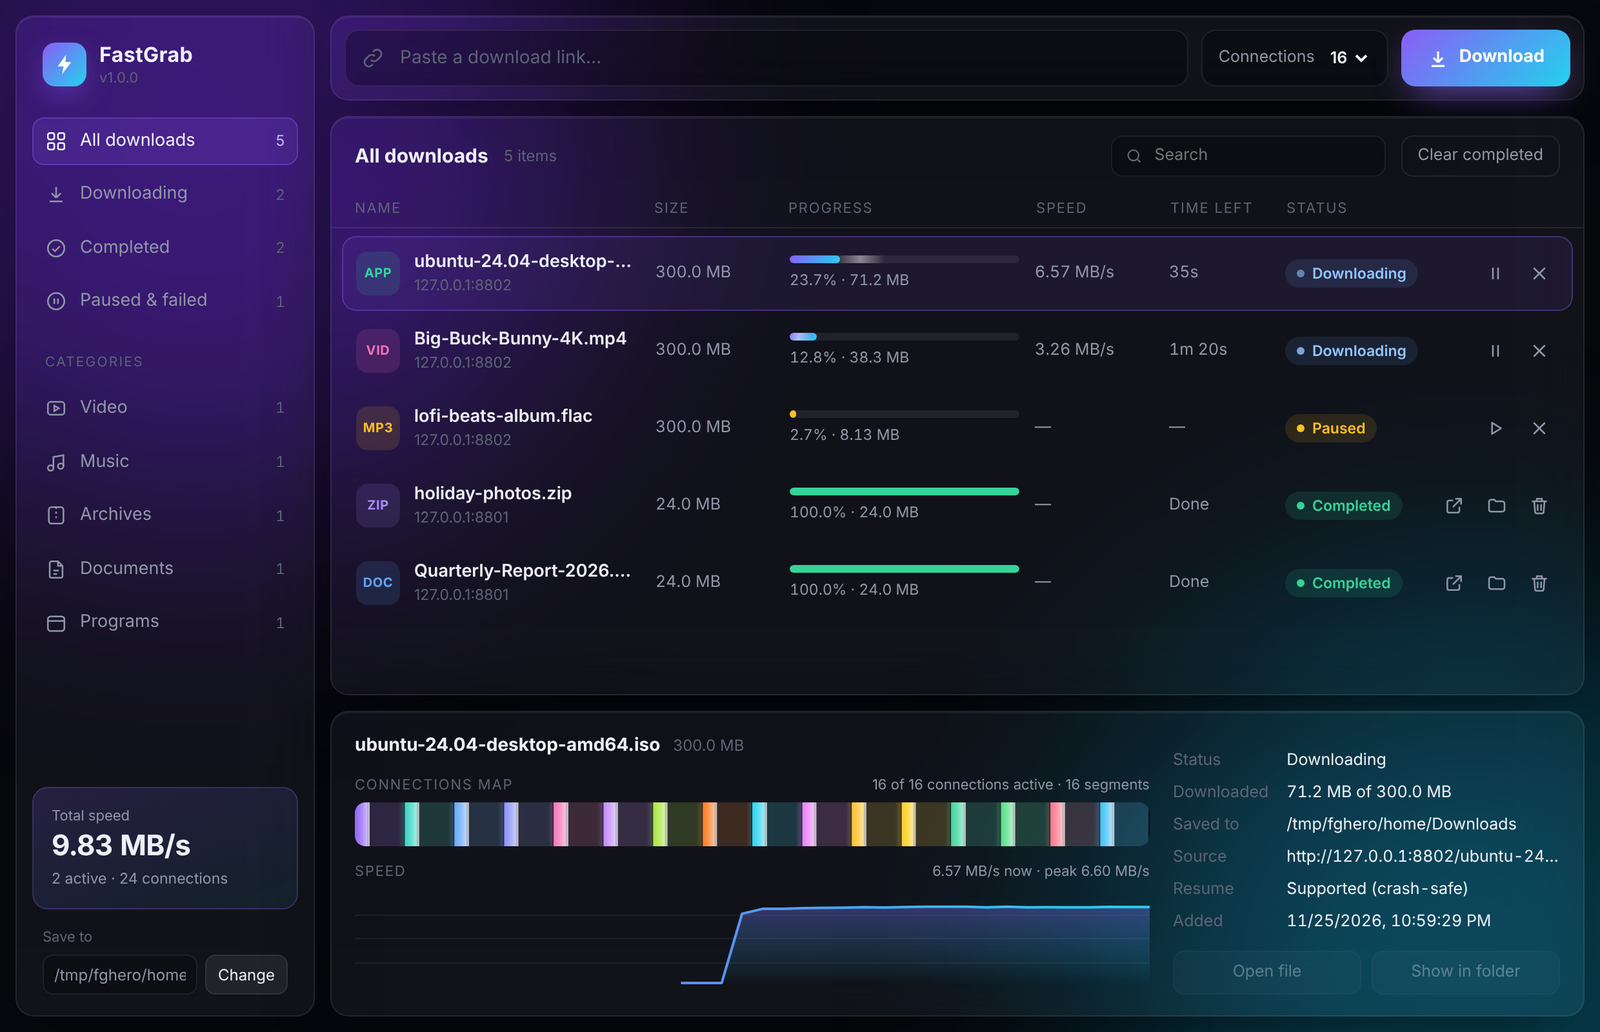
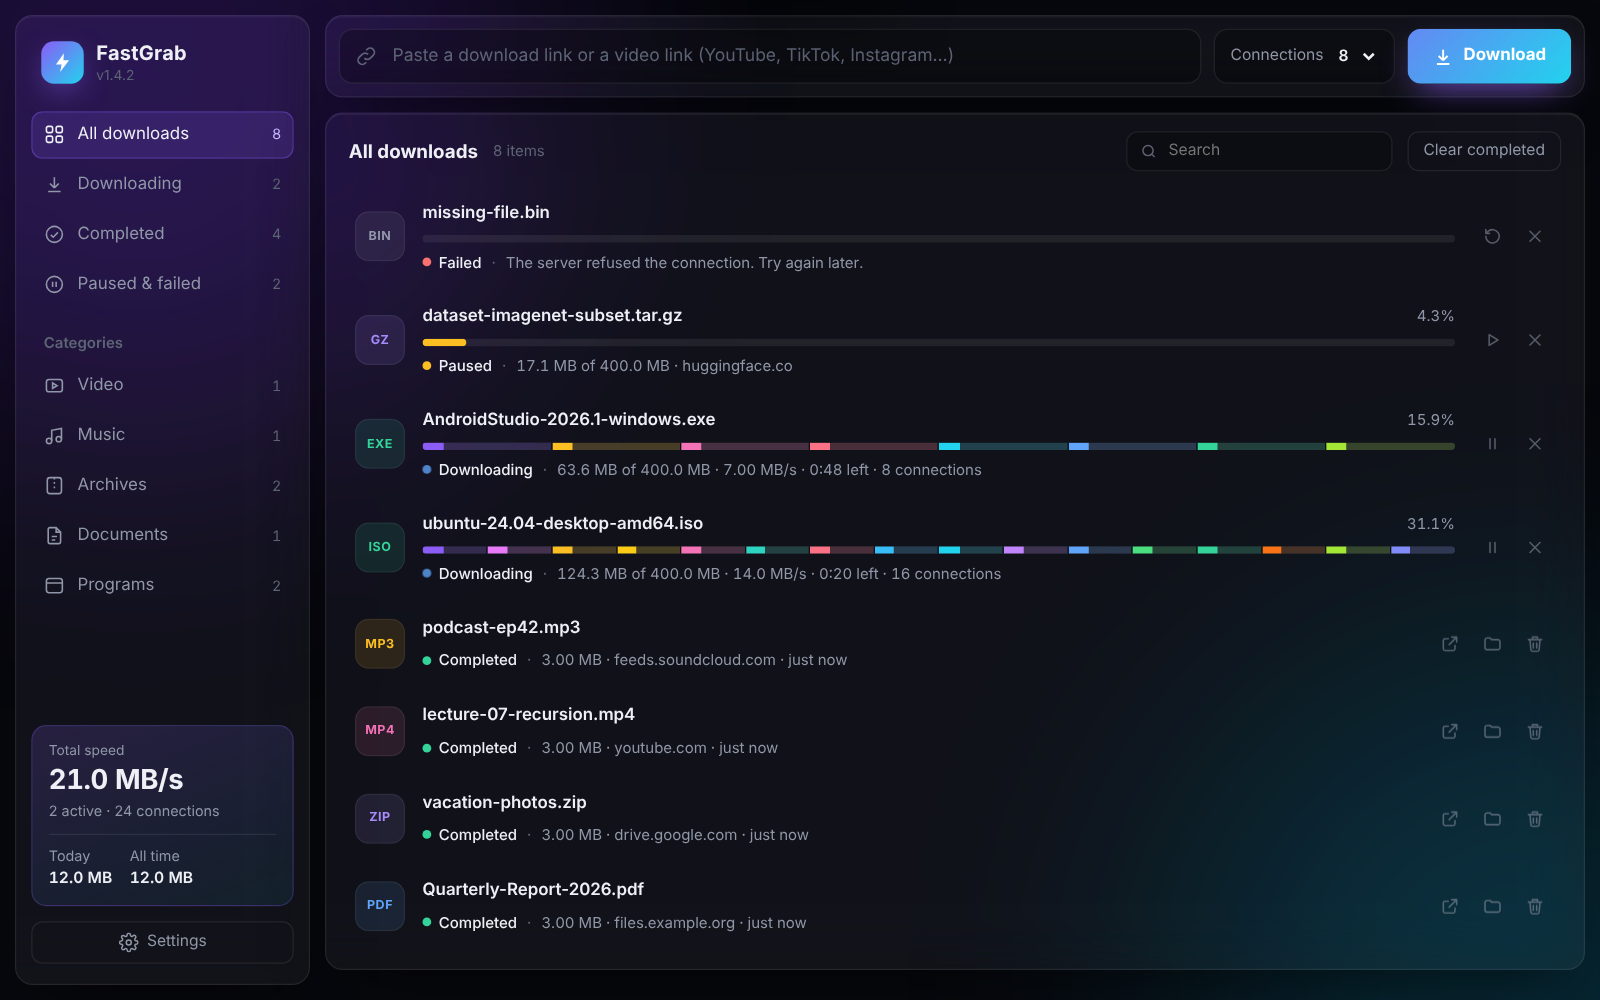
v1.5.0: redesigned downloads list
- Rows instead of a cramped table: full file names, a plain-language status line
  (131 MB of 400 MB · 14.0 MB/s · 0:19 left · 16 connections), actions on hover.
- Each downloading row's progress bar shows every connection's piece of the file.
- Errors in plain words in English, Arabic and Hebrew (e.g. "Couldn't find the
  server. Check the link and your internet connection.").
- The details panel opens only when you pick a download; close it with X, Esc or
  a second click, so the list gets the whole window.
- New empty screen with ways to start; "Today" and "All time" download stats.
- Calmer background, sentence-case labels, keyboard focus and arrow keys in the list.
- Small windows: the sidebar becomes an icon rail.
- New README screenshot; ui_e2e.py now has 41 checks.

diff --git a/tests/ui_e2e.py b/tests/ui_e2e.py
@@ -105,6 +105,53 @@ def main():
             pg.wait_for_timeout(900)
             check("search 'mp' finds 2, clearing shows 4", found == 2 and visible() == 4 and in_page() == 4,
                   f"{found} then {visible()}")
+            # redesign: details only for a download you pick, plain-language errors, stats
+            hidden = lambda: pg.evaluate("document.querySelector('#details').classList.contains('hide')")
+            check("no details panel until you pick a download", hidden())
+            pg.click("#rows .row >> nth=0")
+            pg.wait_for_timeout(400)
+            check("clicking a download opens its details", not hidden())
+            pg.click("#rows .row >> nth=0")
+            pg.wait_for_timeout(400)
+            check("clicking it again closes them", hidden())
+            pg.click("#rows .row >> nth=1")
+            pg.wait_for_timeout(300)
+            pg.keyboard.press("Escape")
+            pg.wait_for_timeout(300)
+            check("Escape closes the details", hidden())
+            pg.click("#rows .row >> nth=1")
+            pg.click("#d-close")
+            pg.wait_for_timeout(300)
+            check("the close button closes the details", hidden())
+            check("stats count today's downloads", pg.inner_text("#st-today") != "0 B", pg.inner_text("#st-today"))
+            call("/api/add", {"url": "http://127.0.0.1:1/nothing-here.bin", "dir": tmp})
+            pg.wait_for_timeout(2500)
+            row_text = "[...document.querySelectorAll('#rows .row')].find(r=>r.innerText.includes(NAME))"
+            failed = pg.evaluate(f"({row_text.replace('NAME', repr('nothing-here.bin'))})?.innerText || ''")
+            check("errors in plain words", "refused the connection" in failed and "Errno" not in failed, failed)
+            slow = Server(size_mb=60, rate_kb=600)
+            try:
+                call("/api/add", {"url": slow.url("/big-iso.iso"), "dir": tmp, "connections": 8})
+                pg.wait_for_timeout(3500)
+                row = row_text.replace("NAME", repr("big-iso.iso"))
+                n = pg.evaluate(f"({row})?.querySelectorAll('.track .sg').length || 0")
+                check("a downloading row shows each connection's piece", n == 8, n)
+                meta = pg.evaluate(f"({row})?.querySelector('.meta').innerText || ''")
+                check("status line: progress, speed, time left, connections",
+                      " of " in meta and "MB/s" in meta and "left" in meta and "connections" in meta, meta)
+            finally:
+                slow.close()
+            for i in [x["id"] for x in call("/api/state")["items"]]:
+                call("/api/action", {"id": i, "action": "cancel"})
+            call("/api/clear-completed", {})
+            pg.wait_for_timeout(1500)
+            left = call("/api/state")["items"]
+            for x in left:
+                call("/api/action", {"id": x["id"], "action": "remove"})
+            pg.wait_for_timeout(1500)
+            check("empty screen offers ways to start", pg.is_visible("#w-paste") and pg.is_visible("#w-ext")
+                  and pg.evaluate("document.querySelectorAll('#emptyArt div').length") == 8,
+                  f"{len(call('/api/state')['items'])} items left")
             check("no page errors", not errors, errors)
             b.close()
     finally:

diff --git a/fastgrab_app.py b/fastgrab_app.py
@@ -181,6 +181,7 @@ DEFAULT_SETTINGS = {
     "keep_awake": True,         # stop Windows sleeping while something is downloading
     "tray_hint_shown": False,
     "update_later": None,       # {"key": what the update popup showed, "until": time} after "Later"
+    "stats": None,              # downloaded files/bytes, all time and today (see Manager.count_done)
 }
 
 
@@ -349,6 +350,7 @@ class Manager:
                 it.sync_from_dl()
                 if it.status == "completed":
                     it.finished = time.time()
+                    self.count_done(it.size or it.downloaded or 0)
                     it.force = False
                     if it.kind == "video":
                         it.parts = []
@@ -358,6 +360,24 @@ class Manager:
 
         it.thread = threading.Thread(target=run, daemon=True)
         it.thread.start()
+
+    def count_done(self, nbytes):
+        """Add a finished download to the stats (call with self.lock held)."""
+        st = self.stats()
+        st["files"] += 1
+        st["bytes"] += nbytes
+        st["day_files"] += 1
+        st["day_bytes"] += nbytes
+        self.settings["stats"] = st
+
+    def stats(self):
+        today = time.strftime("%Y-%m-%d")
+        st = dict(self.settings.get("stats") or {})
+        for k in ("files", "bytes", "day_files", "day_bytes"):
+            st[k] = int(st.get(k) or 0)
+        if st.get("day") != today:                  # a new day: today's numbers start at 0
+            st.update(day=today, day_files=0, day_bytes=0)
+        return st
 
     def schedule_open(self):
         sc = self.settings["schedule"]
@@ -541,10 +561,11 @@ class Manager:
     def state(self):
         with self.lock:
             items = [it.view() for it in self.items.values()]
+            stats = self.stats()
         items.sort(key=lambda v: v["added"], reverse=True)
         p = self.power
-        settings = {k: v for k, v in self.settings.items() if k != "last_update_check"}
-        return {"items": items, "settings": settings, "version": fastgrab.__version__,
+        settings = {k: v for k, v in self.settings.items() if k not in ("last_update_check", "stats")}
+        return {"items": items, "settings": settings, "version": fastgrab.__version__, "stats": stats,
                 "video": {**fastgrab_video.status(), **VIDEO_INSTALL},
                 "schedule_open": self.schedule_open(),
                 "power": {"action": p["action"],

diff --git a/fastgrab.py b/fastgrab.py
@@ -34,7 +34,7 @@ import urllib.parse
 import urllib.request
 from email.message import Message
 
-__version__ = "1.4.2"
+__version__ = "1.5.0"
 
 CHUNK = 64 * 1024            # bytes read per socket read
 MIN_SPLIT = 512 * 1024       # never create segments smaller than this

diff --git a/README.md b/README.md
@@ -29,7 +29,7 @@ The server limits each connection to 5 MB/s, as many real servers do. Each resul
 - **Scheduler:** download overnight, then sleep or shut down the PC
 - **Auto-update** for both the app and video support, verified by SHA-256
 - **English, العربية and עברית**, with a full right-to-left layout
-- **Live connections map** showing every connection filling its part of the file
+- **See every connection:** each download's progress bar shows every connection filling its own part of the file
 
 > Only download videos you have the right to save.
 
@@ -72,7 +72,7 @@ Press **Ctrl+C** to pause; run the same command again to resume. On Windows, `in
 python -m unittest discover -s tests -v
 ```
 
-90+ checks run on Windows, macOS and Linux through GitHub Actions. A local test server can throttle, cut or refuse connections, and every download is verified by SHA-256. Releases are only published after the built `FastGrab.exe` itself passes the tests.
+100+ checks run on Windows, macOS and Linux through GitHub Actions. A local test server can throttle, cut or refuse connections, and every download is verified by SHA-256. Releases are only published after the built `FastGrab.exe` itself passes the tests.
 
 <details>
 <summary><b>What the tests cover</b></summary>
@@ -84,7 +84,7 @@ python -m unittest discover -s tests -v
 | `test_features` (11) | scheduler, when-done countdown, settings and languages, extension pairing key and cookies |
 | `test_tray` (13) | closing the window keeps downloading, one window at a time, Pause all / Resume all; on Windows the real tray icon, notifications and keep-awake |
 | `test_update` (5) | verified yt-dlp updates with fallback; a full self-update and restart; no update offered before its files are uploaded |
-| `ui_e2e.py` (31) | the window in a real Chrome: filters and search, the update popup end to end (Later, Update now, Arabic layout) |
+| `ui_e2e.py` (41) | the window in a real Chrome: filters and search, per-connection progress in each row, plain-language errors, the details panel, stats, the empty screen, and the update popup end to end (Later, Update now, Arabic layout) |
 | `extension_e2e.py` (13) | the extension in a real Chrome: catching downloads, cookies, right-click menu, fallback when FastGrab is closed |
 
 </details>
